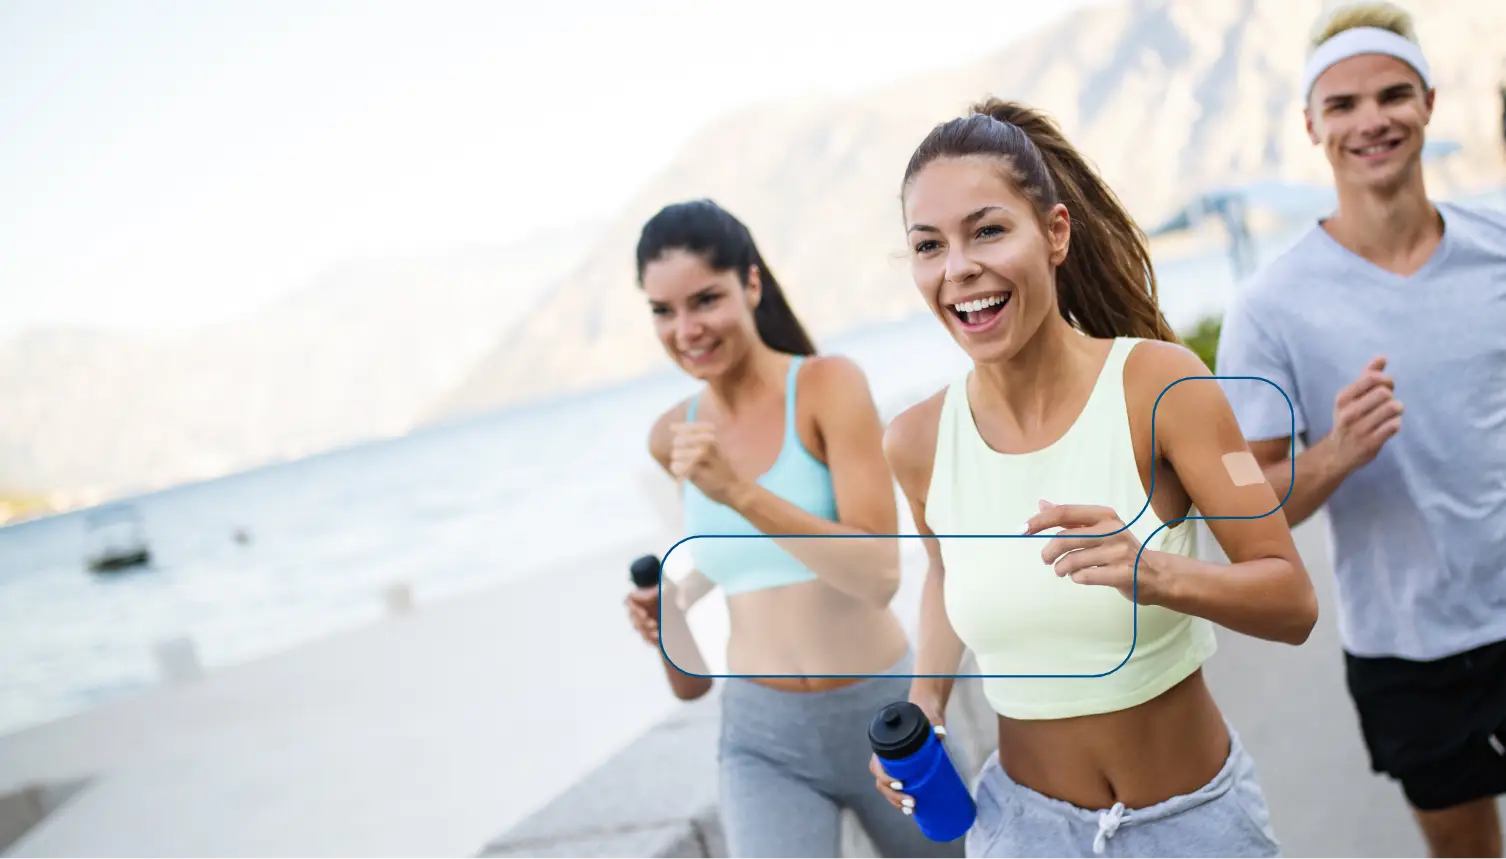
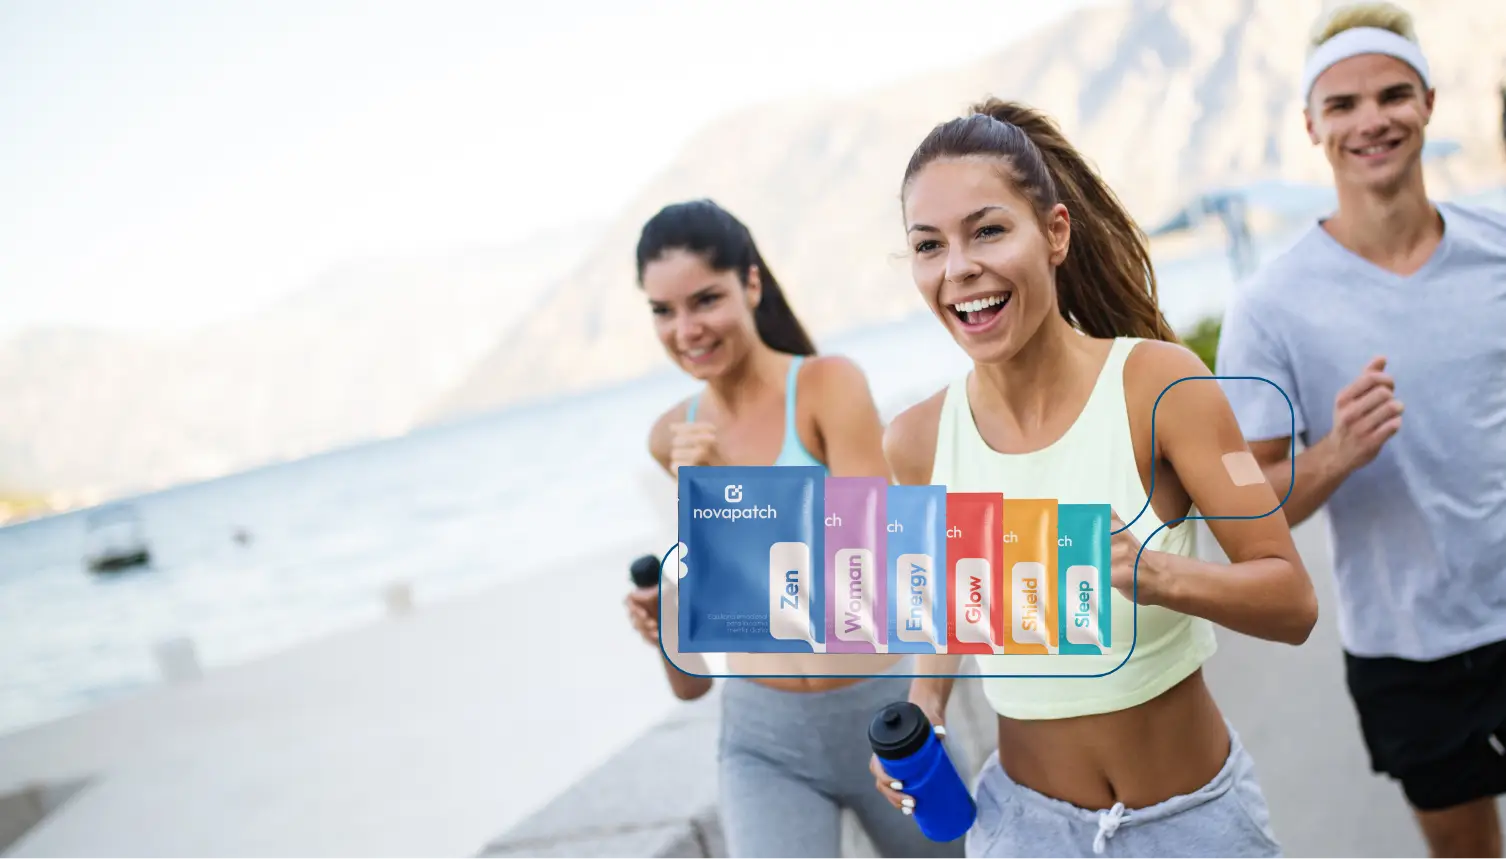
feat: update hero sections to include localized call-to-action buttons and improve translations

Changed region(s): [[0.4369, 0.5146, 0.749, 0.787]]

diff --git a/commerce-storefront/src/modules/about/pages/about-template/sections/hero-section.tsx b/commerce-storefront/src/modules/about/pages/about-template/sections/hero-section.tsx
@@ -2,6 +2,7 @@
 
 import Image from "next/image"
 import { useTranslations } from "next-intl"
+import LocalizedClientLink from "@modules/common/components/localized-client-link"
 
 const WAVE_COLOR = "#83b5f4"
 
@@ -69,9 +70,15 @@ export default function AboutHeroSection() {
               {t("title")}
             </h1>
 
-            <p className="text-white font-light leading-relaxed text-[clamp(1rem,1.5vw+0.5rem,1.375rem)] max-w-[clamp(280px,50vw,500px)]">
+            <p className="text-white font-light leading-relaxed text-[clamp(1rem,1.5vw+0.5rem,1.375rem)] max-w-[clamp(280px,50vw,500px)] mb-[clamp(1.5rem,2vw,2rem)]">
               {t("subtitle")}
             </p>
+
+            <LocalizedClientLink href="/store">
+              <button className="bg-novapatch-button text-white font-medium rounded-lg shadow-md hover:opacity-90 transition-opacity px-[clamp(1.5rem,2vw,2rem)] py-[clamp(0.625rem,1vw,0.75rem)] text-[clamp(0.875rem,1vw,1rem)]">
+                {t("cta")}
+              </button>
+            </LocalizedClientLink>
           </div>
         </div>
       </div>

diff --git a/commerce-storefront/src/modules/subscriptions/pages/subscriptions-page-template/sections/hero-section.tsx b/commerce-storefront/src/modules/subscriptions/pages/subscriptions-page-template/sections/hero-section.tsx
@@ -82,7 +82,7 @@ export default function SubscriptionsHeroSection() {
 
             <LocalizedClientLink href="/store">
               <button className="bg-novapatch-button text-white font-medium rounded-lg shadow-md hover:opacity-90 transition-opacity px-[clamp(1.5rem,2vw,2rem)] py-[clamp(0.625rem,1vw,0.75rem)] text-[clamp(0.875rem,1vw,1rem)]">
-                Suscribirte ahora
+                {t("cta")}
               </button>
             </LocalizedClientLink>
           </div>